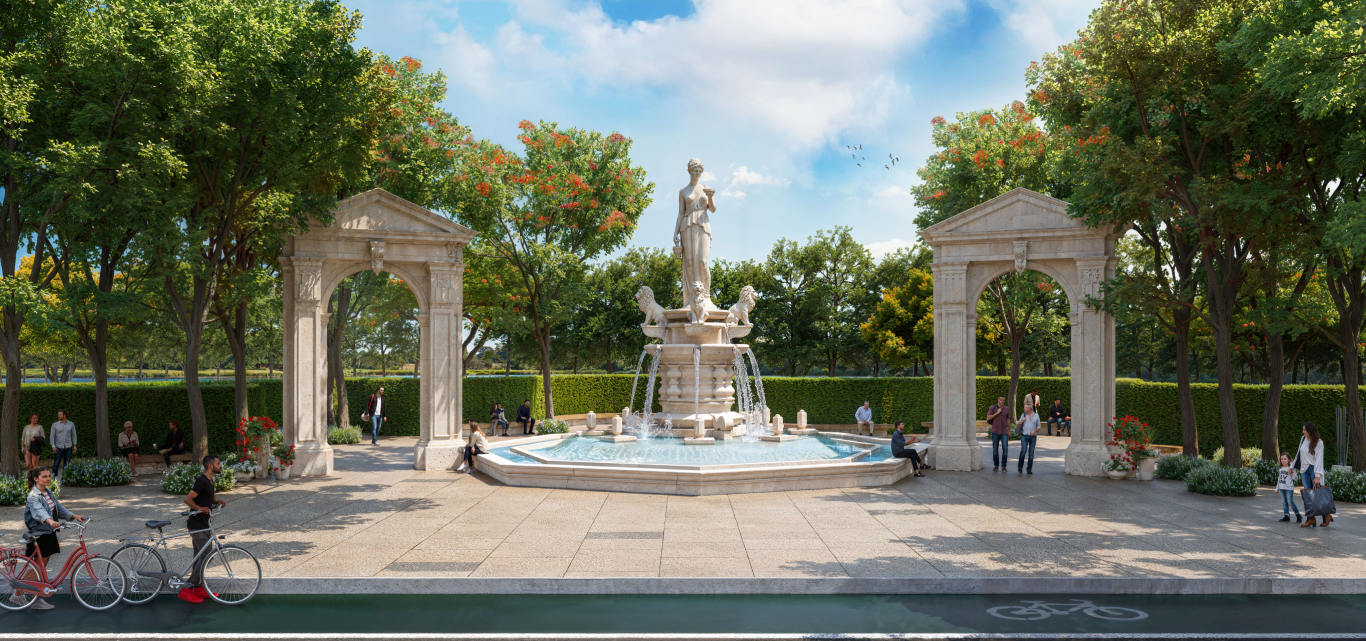
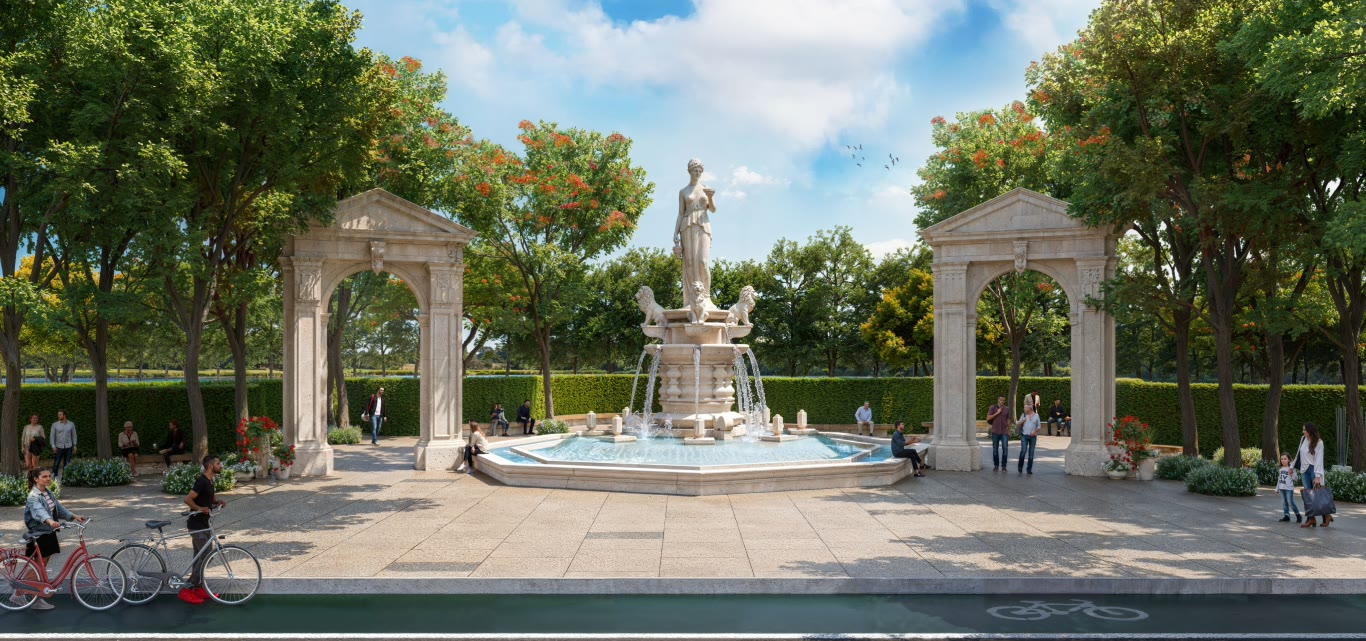
perf: paint the hero without JS, drop 20MB of unused image assets
Lighthouse (mobile, Slow 4G, Moto G Power) reported LCP 7.4s, TBT 580ms,
Performance 58. The cause was aff302a, which moved the hero entrance animation
from CSS to Motion. That shipped every above-the-fold element hidden: the nine
headline words as transform:translateY(115%) inside overflow-hidden, and the
eyebrow, subheading, badges, CTA and lead form at opacity:0. None of it could
paint until React hydrated and Motion's lazily-loaded domMax chunk arrived,
after which a ~1s animation still had to run.

Revert the hero to the CSS keyframes that commit deleted. Motion still drives
the background parallax; it just no longer gates whether text is visible. The
animation is visually unchanged — same 0.95s word reveal, same 55ms stagger.
Verified against the production build: translateY(115%) no longer appears in
the served HTML, and the hero renders in full with JavaScript disabled.

Also in this pass:

- Footer glow was a 5760x2560 PNG — a 15 megapixel decode on every load for
  what is only a soft wash of colour. Replaced with two radial-gradients.
- Remove 35 unreferenced images left over from the original template
  (property-*, service-*, blog-*, client-*, why-*, mumbai-*, about-survey).
- Re-encode render-gardens.jpg (1.5MB -> 260KB) and render-clubhouse.jpg at
  unchanged dimensions; both were stored at near-lossless quality.
- Restore the browserslist config aff302a also dropped, so the build targets
  modern browsers instead of emitting broader-compat output.
[…]

diff --git a/components/sections/Hero.tsx b/components/sections/Hero.tsx
@@ -48,18 +48,16 @@ export function Hero() {
         {/* Left: headline, subheading, badges, CTAs                          */}
         {/* ---------------------------------------------------------------- */}
         <div>
-          <m.p
-            initial={{ opacity: 0, y: 14 }}
-            animate={{ opacity: 1, y: 0 }}
-            transition={{ delay: 0.15, duration: 0.6 }}
-            className="mb-5 inline-flex items-center gap-2.5 border border-white/25 bg-white/10 px-4 py-2 text-xs font-medium tracking-[0.16em] text-white uppercase backdrop-blur-sm"
+          <p
+            style={{ animationDelay: "150ms" }}
+            className="animate-fade-up mb-5 inline-flex items-center gap-2.5 border border-white/25 bg-white/10 px-4 py-2 text-xs font-medium tracking-[0.16em] text-white uppercase backdrop-blur-sm"
           >
             <span className="relative flex h-1.5 w-1.5">
               <span className="absolute inline-flex h-full w-full rounded-full bg-accent opacity-70 [animation:pulse-ring_2.4s_ease-out_infinite]" />
               <span className="relative inline-flex h-1.5 w-1.5 rounded-full bg-accent" />
             </span>
             New Launch · {project.locality}
-          </m.p>
+          </p>
 
           <h1 className="max-w-2xl text-[2.15rem] leading-[1.1] font-bold tracking-[-0.02em] text-white sm:text-[2.75rem] lg:text-[3.4rem]">
             <span className="sr-only">{hero.heading}</span>
@@ -69,37 +67,27 @@ export function Hero() {
                   key={`${word}-${i}`}
                   className="mr-[0.24em] inline-block overflow-hidden pb-[0.08em] align-bottom"
                 >
-                  <m.span
-                    className="inline-block"
-                    initial={{ y: "115%" }}
-                    animate={{ y: 0 }}
-                    transition={{
-                      delay: 0.2 + i * 0.055,
-                      duration: 0.95,
-                      ease: [0.16, 1, 0.3, 1],
-                    }}
+                  <span
+                    className="animate-word-reveal inline-block"
+                    style={{ animationDelay: `${200 + i * 55}ms` }}
                   >
                     {word}
-                  </m.span>
+                  </span>
                 </span>
               ))}
             </span>
           </h1>
 
-          <m.p
-            initial={{ opacity: 0, y: 18 }}
-            animate={{ opacity: 1, y: 0 }}
-            transition={{ delay: 0.75, duration: 0.75, ease: [0.16, 1, 0.3, 1] }}
-            className="mt-6 text-xl font-semibold text-accent sm:text-2xl"
+          <p
+            style={{ animationDelay: "750ms" }}
+            className="animate-fade-up mt-6 text-xl font-semibold text-accent sm:text-2xl"
           >
             {hero.subheading}
-          </m.p>
+          </p>
 
-          <m.ul
-            initial={{ opacity: 0, y: 18 }}
-            animate={{ opacity: 1, y: 0 }}
-            transition={{ delay: 0.85, duration: 0.75, ease: [0.16, 1, 0.3, 1] }}
-            className="mt-7 flex flex-wrap gap-2.5"
+          <ul
+            style={{ animationDelay: "850ms" }}
+            className="animate-fade-up mt-7 flex flex-wrap gap-2.5"
           >
             {hero.badges.map((badge) => (
               <li
@@ -110,32 +98,28 @@ export function Hero() {
                 {badge}
               </li>
             ))}
-          </m.ul>
+          </ul>
 
-          <m.div
-            initial={{ opacity: 0, y: 18 }}
-            animate={{ opacity: 1, y: 0 }}
-            transition={{ delay: 0.95, duration: 0.75, ease: [0.16, 1, 0.3, 1] }}
-            className="mt-9 flex flex-wrap gap-3"
+          <div
+            style={{ animationDelay: "950ms" }}
+            className="animate-fade-up mt-9 flex flex-wrap gap-3"
           >
             <Button href="#lead-form" variant="accent" icon={false} className="px-8">
               Book Free Site Visit
             </Button>
-          </m.div>
+          </div>
         </div>
 
         {/* ---------------------------------------------------------------- */}
         {/* Right: lead capture form                                          */}
         {/* ---------------------------------------------------------------- */}
-        <m.div
-          initial={{ opacity: 0, y: 34 }}
-          animate={{ opacity: 1, y: 0 }}
-          transition={{ delay: 0.6, duration: 0.85, ease: [0.16, 1, 0.3, 1] }}
+        <div
+          style={{ animationDelay: "600ms" }}
           id="lead-form"
-          className="scroll-mt-28 lg:justify-self-end"
+          className="animate-fade-up scroll-mt-28 lg:justify-self-end"
         >
           <LeadForm />
-        </m.div>
+        </div>
       </div>
     </section>
   );

diff --git a/app/globals.css b/app/globals.css
@@ -34,6 +34,12 @@
   --animate-marquee-reverse: marquee-reverse 40s linear infinite;
   --animate-float: float 6s ease-in-out infinite;
   --animate-pulse-ring: pulse-ring 2.4s ease-out infinite;
+  /* CSS-driven hero entrance. Runs on the compositor as soon as styles are
+     parsed, so the LCP text paints on schedule without waiting for React
+     hydration + the lazily-loaded motion feature bundle to hydrate the
+     equivalent JS-driven animation. */
+  --animate-fade-up: fade-up 0.75s var(--ease-out-expo) both;
+  --animate-word-reveal: word-reveal 0.95s var(--ease-out-expo) both;
 
   @keyframes marquee {
     from {
@@ -72,6 +78,33 @@
     100% {
       opacity: 0;
     }
+  }
+  @keyframes fade-up {
+    from {
+      opacity: 0;
+      transform: translateY(18px);
+    }
+    to {
+      opacity: 1;
+      transform: translateY(0);
+    }
+  }
+  @keyframes word-reveal {
+    from {
+      transform: translateY(115%);
+    }
+    to {
+      transform: translateY(0);
+    }
+  }
+}
+
+@media (prefers-reduced-motion: reduce) {
+  .animate-fade-up,
+  .animate-word-reveal {
+    animation: none !important;
+    opacity: 1 !important;
+    transform: none !important;
   }
 }
 

diff --git a/components/layout/Footer.tsx b/components/layout/Footer.tsx
@@ -1,4 +1,3 @@
-import Image from "next/image";
 import Link from "next/link";
 import { PreferredPartnerLogo } from "@/components/layout/PreferredPartnerLogo";
 import { Reveal } from "@/components/motion/Reveal";
@@ -25,13 +24,12 @@ const sectionLinks = [
 export function Footer() {
   return (
     <footer className="relative overflow-hidden bg-ink-800 pt-16 pb-8">
-      <Image
-        src="/images/footer-glow.png"
-        alt=""
-        fill
-        sizes="100vw"
+      {/* Ambient glow, painted rather than downloaded. This was a 5760x2560 PNG
+          — 15 megapixels decoded on every load for what is just a soft wash of
+          colour behind the footer. Two gradients read the same and cost nothing. */}
+      <div
         aria-hidden
-        className="pointer-events-none object-cover opacity-70"
+        className="pointer-events-none absolute inset-0 bg-[radial-gradient(120%_80%_at_50%_0%,rgba(238,97,35,0.16)_0%,transparent_55%),radial-gradient(90%_60%_at_15%_100%,rgba(26,91,160,0.35)_0%,transparent_60%)]"
       />
       <div
         aria-hidden
